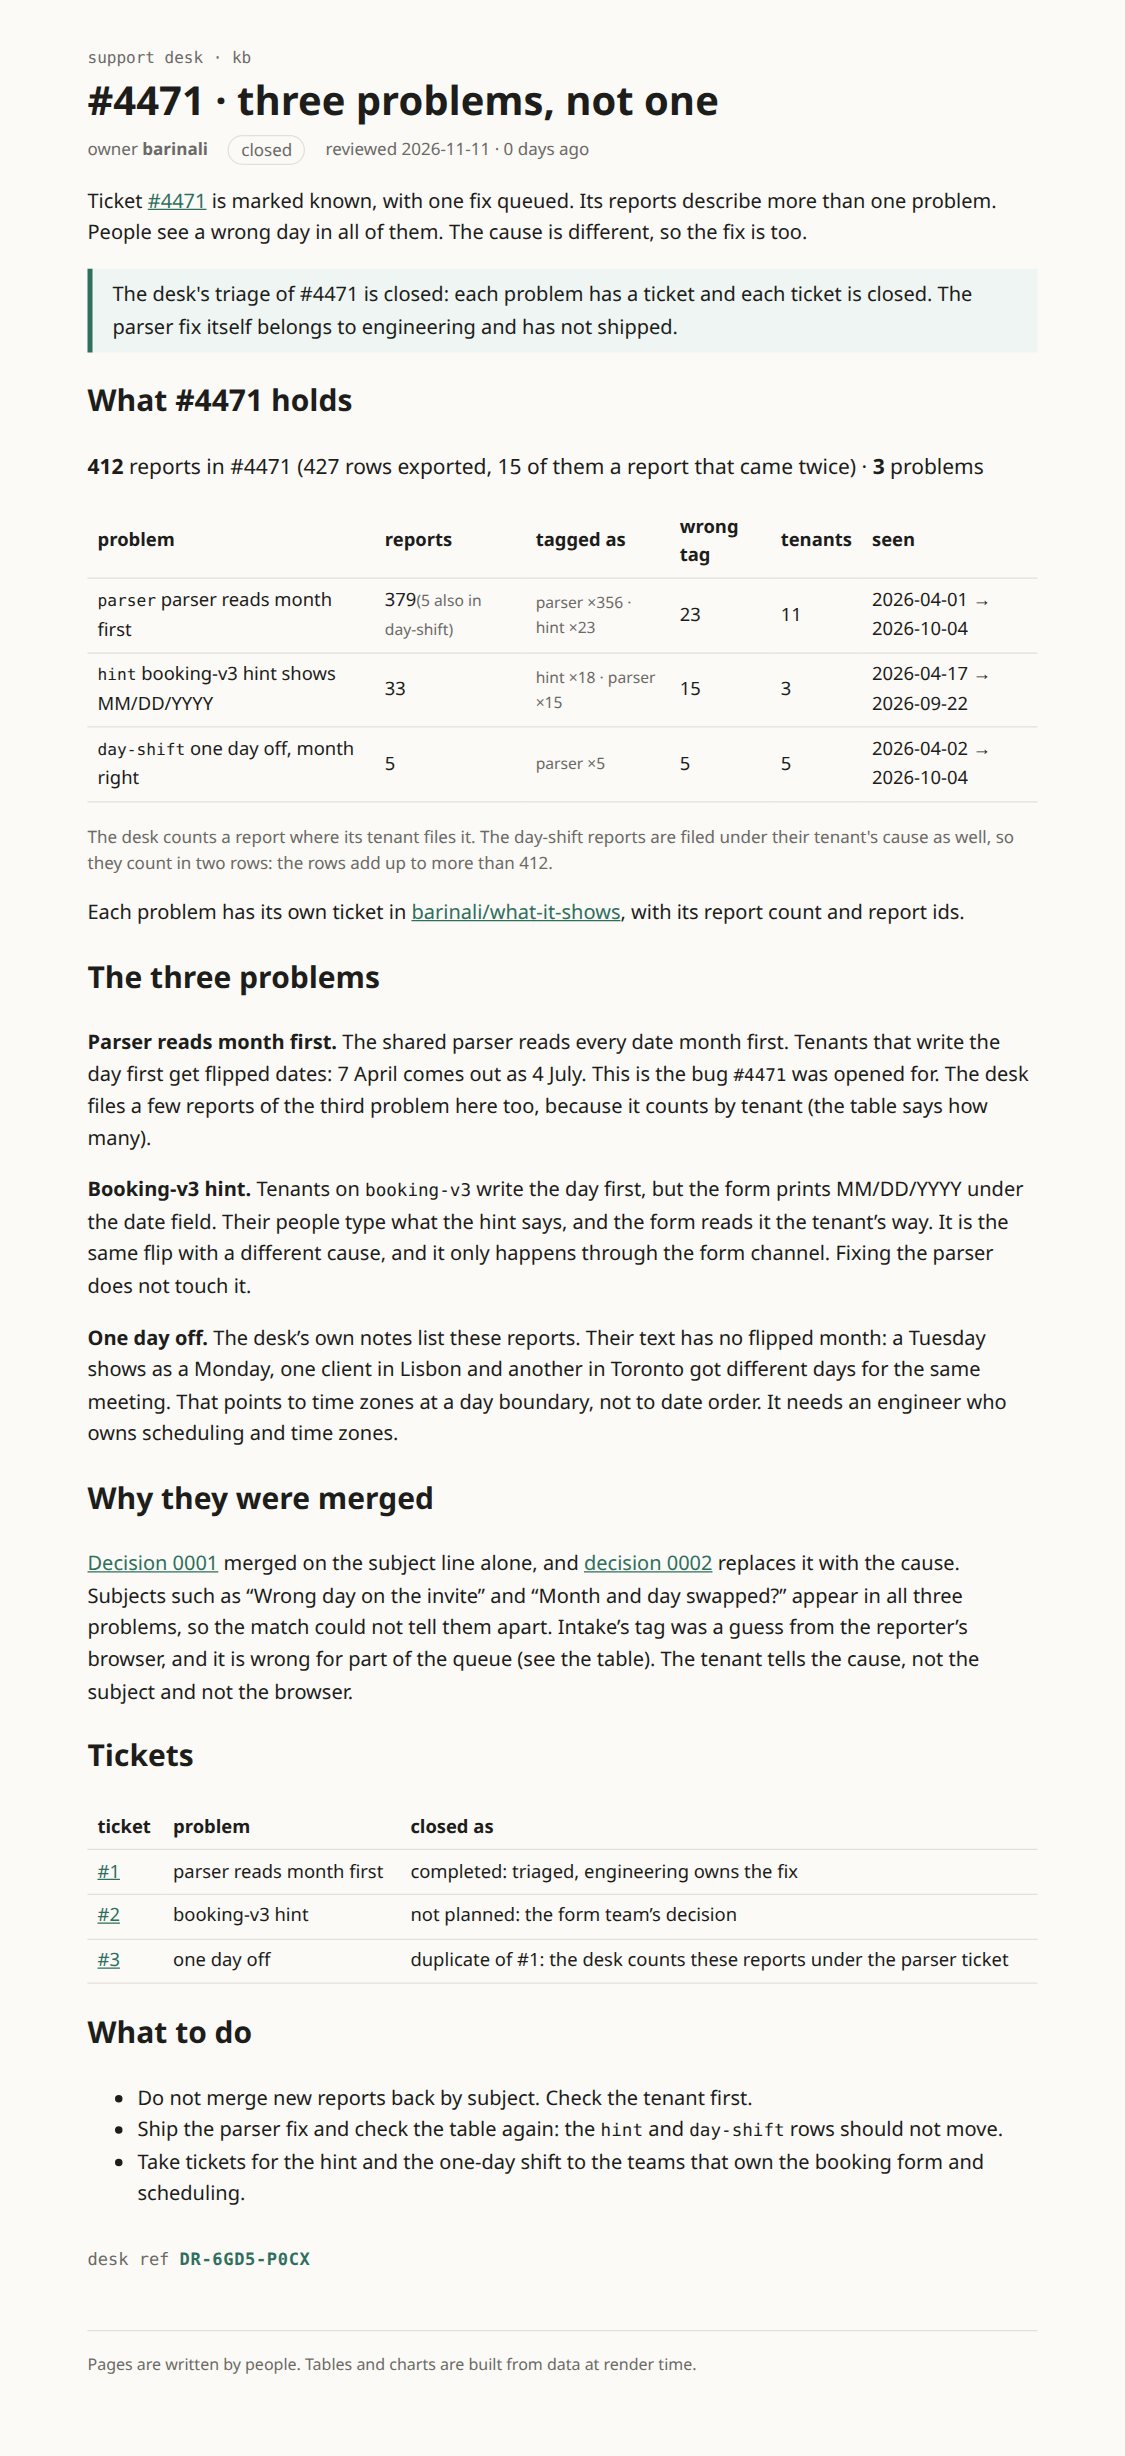
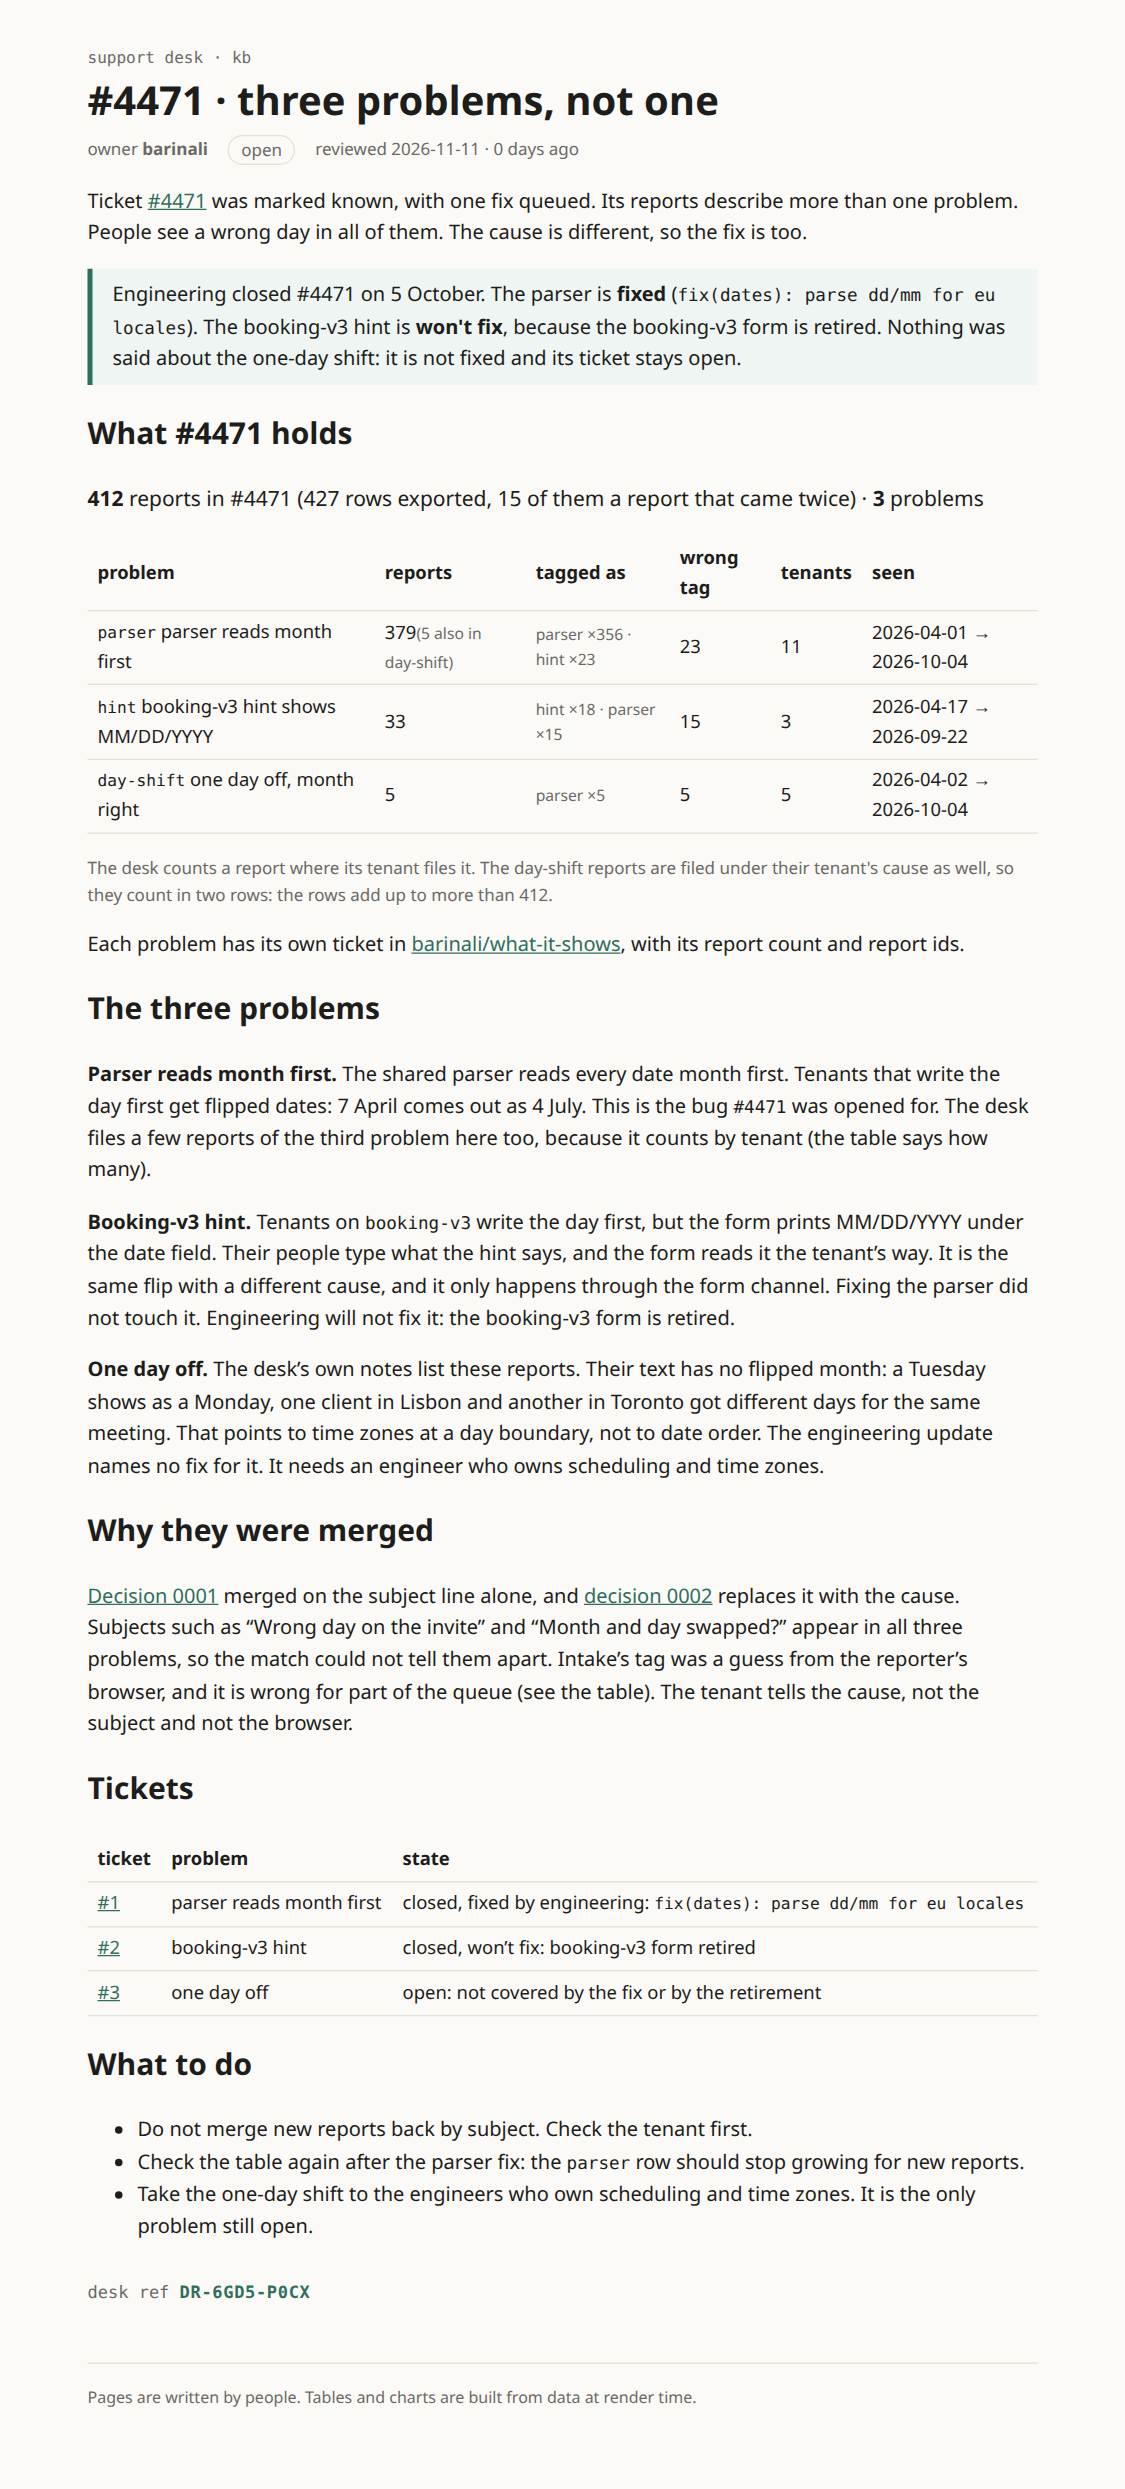
docs: refresh the rendered copy of the #4471 page
Rebuilt with the engineering outcome.

Changed region(s): [[0.0622, 0.0309, 0.9022, 0.9283]]

diff --git a/rendered/4471-three-problems.html b/rendered/4471-three-problems.html
@@ -14,21 +14,22 @@ aside.svelte-17bri61{border-left:4px solid var(--accent);padding:.5rem 1rem;marg
 </style>
 </head>
   <body>
-    <div style="display: contents"><!--[--><!--[0--><!--[--><!--[--><div class="kb svelte-e2jw2j"><header><a class="crumb svelte-e2jw2j" href="/kb">support desk · kb</a> <h1 class="svelte-e2jw2j">#4471 · three problems, not one</h1> <p class="meta svelte-e2jw2j"><span>owner <b>barinali</b></span> <span class="status closed svelte-e2jw2j">closed</span> <span class="svelte-e2jw2j">reviewed 2026-11-11 · 0 days ago</span></p></header> <!--[-1--><!--]--> <main><p>Ticket <a href="/kb/incidents/4471">#4471</a> is marked known, with one fix queued. Its reports describe more
-than one problem. People see a wrong day in all of them. The cause is different, so the fix is too.</p> <aside class="note svelte-17bri61"><!---->The desk's triage of #4471 is closed: each problem has a ticket and each ticket is closed. The parser fix
-itself belongs to engineering and has not shipped.<!----></aside><!----> <h2>What #4471 holds</h2> <p class="sum svelte-h3x27m"><strong>412</strong> reports in #4471 (427 rows exported,
+    <div style="display: contents"><!--[--><!--[0--><!--[--><!--[--><div class="kb svelte-e2jw2j"><header><a class="crumb svelte-e2jw2j" href="/kb">support desk · kb</a> <h1 class="svelte-e2jw2j">#4471 · three problems, not one</h1> <p class="meta svelte-e2jw2j"><span>owner <b>barinali</b></span> <span class="status open svelte-e2jw2j">open</span> <span class="svelte-e2jw2j">reviewed 2026-11-11 · 0 days ago</span></p></header> <!--[-1--><!--]--> <main><p>Ticket <a href="/kb/incidents/4471">#4471</a> was marked known, with one fix queued. Its reports describe more
+than one problem. People see a wrong day in all of them. The cause is different, so the fix is too.</p> <aside class="note svelte-17bri61"><!---->Engineering closed #4471 on 5 October. The parser is <strong>fixed</strong> (<code>fix(dates): parse dd/mm for eu locales</code>).
+The booking-v3 hint is <strong>won't fix</strong>, because the booking-v3 form is retired. Nothing was said about the
+one-day shift: it is not fixed and its ticket stays open.<!----></aside><!----> <h2>What #4471 holds</h2> <p class="sum svelte-h3x27m"><strong>412</strong> reports in #4471 (427 rows exported,
   15 of them a report that came twice) · <strong>3</strong> problems</p> <table><thead><tr><th>problem</th><th>reports</th><th>tagged as</th><th>wrong tag</th><th>tenants</th><th>seen</th></tr></thead><tbody><!--[--><tr><td><code>parser</code> parser reads month first</td><td>379<!--[0--><span class="tags svelte-h3x27m">(5 also in day-shift)</span><!--]--></td><td class="tags svelte-h3x27m">parser ×356 · hint ×23</td><td>23</td><td title="alder.physio, copper.studio, harbour.dental, kettle.books, lantern.row, long.table, morrow.tax, nine.lanterns, pale.harbour, ridge.clinic, stone.and.sons">11</td><td>2026-04-01 → 2026-10-04</td></tr><tr><td><code>hint</code> booking-v3 hint shows MM/DD/YYYY</td><td>33<!--[-1--><!--]--></td><td class="tags svelte-h3x27m">hint ×18 · parser ×15</td><td>15</td><td title="alder.physio, copper.studio, pale.harbour">3</td><td>2026-04-17 → 2026-09-22</td></tr><tr><td><code>day-shift</code> one day off, month right</td><td>5<!--[-1--><!--]--></td><td class="tags svelte-h3x27m">parser ×5</td><td>5</td><td title="alder.physio, kettle.books, lantern.row, nine.lanterns, pale.harbour">5</td><td>2026-04-02 → 2026-10-04</td></tr><!--]--></tbody></table> <p class="tags svelte-h3x27m">The desk counts a report where its tenant files it. The day-shift reports are filed under their tenant's
   cause as well, so they count in two rows: the rows add up to more than 412.</p><!----> <p>Each problem has its own ticket in <a href="https://github.com/barinali/what-it-shows/issues" rel="nofollow">barinali/what-it-shows</a>,
 with its report count and report ids.</p> <h2>The three problems</h2> <p><strong>Parser reads month first.</strong> The shared parser reads every date month first. Tenants that write the day
 first get flipped dates: 7 April comes out as 4 July. This is the bug <code>#4471</code> was opened for. The desk files a few reports of the third problem here too, because
 it counts by tenant (the table says how many).</p> <p><strong>Booking-v3 hint.</strong> Tenants on <code>booking-v3</code> write the day first, but the form prints MM/DD/YYYY under the date
 field. Their people type what the hint says, and the form reads it the tenant’s way. It is the same flip with a
-different cause, and it only happens through the form channel. Fixing the parser does not touch it.</p> <p><strong>One day off.</strong> The desk’s own notes list these reports. Their text has no flipped month: a Tuesday shows as a
+different cause, and it only happens through the form channel. Fixing the parser did not touch it. Engineering will not fix it: the booking-v3 form is retired.</p> <p><strong>One day off.</strong> The desk’s own notes list these reports. Their text has no flipped month: a Tuesday shows as a
 Monday, one client in Lisbon and another in Toronto got different days for the same meeting. That points to
-time zones at a day boundary, not to date order. It needs an engineer who owns scheduling and time zones.</p> <h2>Why they were merged</h2> <p><a href="/kb/decisions/0001-dedupe-by-subject">Decision 0001</a> merged on the subject line alone, and <a href="/kb/decisions/0002-dedupe-by-cause">decision 0002</a> replaces it with the cause. Subjects such as
+time zones at a day boundary, not to date order. The engineering update names no fix for it. It needs an engineer who owns scheduling and time zones.</p> <h2>Why they were merged</h2> <p><a href="/kb/decisions/0001-dedupe-by-subject">Decision 0001</a> merged on the subject line alone, and <a href="/kb/decisions/0002-dedupe-by-cause">decision 0002</a> replaces it with the cause. Subjects such as
 “Wrong day on the invite” and “Month and day swapped?” appear in all three problems, so the match could not
 tell them apart. Intake’s tag was a guess from the reporter’s browser, and it is wrong for part of the queue
-(see the table). The tenant tells the cause, not the subject and not the browser.</p> <h2>Tickets</h2> <table><thead><tr><th>ticket</th><th>problem</th><th>closed as</th></tr></thead><tbody><tr><td><a href="https://github.com/barinali/what-it-shows/issues/1" rel="nofollow">#1</a></td><td>parser reads month first</td><td>completed: triaged, engineering owns the fix</td></tr><tr><td><a href="https://github.com/barinali/what-it-shows/issues/2" rel="nofollow">#2</a></td><td>booking-v3 hint</td><td>not planned: the form team’s decision</td></tr><tr><td><a href="https://github.com/barinali/what-it-shows/issues/3" rel="nofollow">#3</a></td><td>one day off</td><td>duplicate of #1: the desk counts these reports under the parser ticket</td></tr></tbody></table> <h2>What to do</h2> <ul><li>Do not merge new reports back by subject. Check the tenant first.</li> <li>Ship the parser fix and check the table again: the <code>hint</code> and <code>day-shift</code> rows should not move.</li> <li>Take tickets for the hint and the one-day shift to the teams that own the booking form and scheduling.</li></ul> <!--[0--><p class="stamp svelte-1280m42">desk ref <b class="svelte-1280m42">DR-6GD5-P0CX</b></p><!--]--><!----><!----></main> <footer class="svelte-e2jw2j">Pages are written by people. Tables and charts are built from data at render time.</footer></div><!--]--><!----><!--]--><!--]--> <!--[-1--><!--]--><!--]-->
+(see the table). The tenant tells the cause, not the subject and not the browser.</p> <h2>Tickets</h2> <table><thead><tr><th>ticket</th><th>problem</th><th>state</th></tr></thead><tbody><tr><td><a href="https://github.com/barinali/what-it-shows/issues/1" rel="nofollow">#1</a></td><td>parser reads month first</td><td>closed, fixed by engineering: <code>fix(dates): parse dd/mm for eu locales</code></td></tr><tr><td><a href="https://github.com/barinali/what-it-shows/issues/2" rel="nofollow">#2</a></td><td>booking-v3 hint</td><td>closed, won’t fix: booking-v3 form retired</td></tr><tr><td><a href="https://github.com/barinali/what-it-shows/issues/3" rel="nofollow">#3</a></td><td>one day off</td><td>open: not covered by the fix or by the retirement</td></tr></tbody></table> <h2>What to do</h2> <ul><li>Do not merge new reports back by subject. Check the tenant first.</li> <li>Check the table again after the parser fix: the <code>parser</code> row should stop growing for new reports.</li> <li>Take the one-day shift to the engineers who own scheduling and time zones. It is the only problem still open.</li></ul> <!--[0--><p class="stamp svelte-1280m42">desk ref <b class="svelte-1280m42">DR-6GD5-P0CX</b></p><!--]--><!----><!----></main> <footer class="svelte-e2jw2j">Pages are written by people. Tables and charts are built from data at render time.</footer></div><!--]--><!----><!--]--><!--]--> <!--[-1--><!--]--><!--]-->
 			
 			
 		</div>
